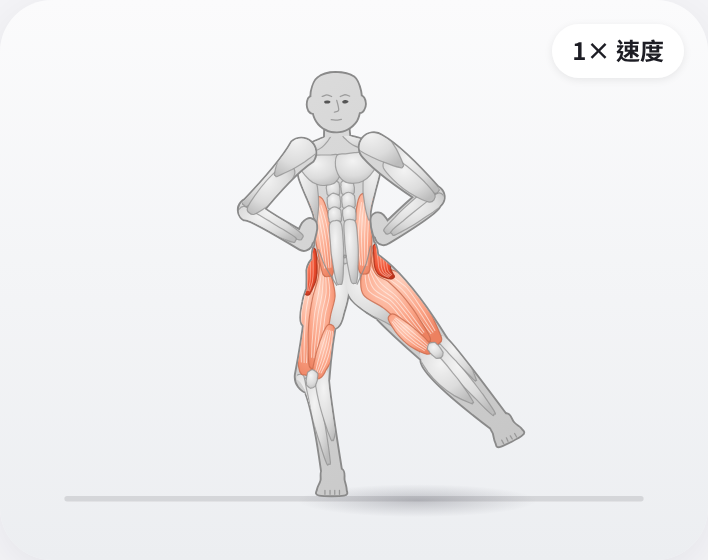
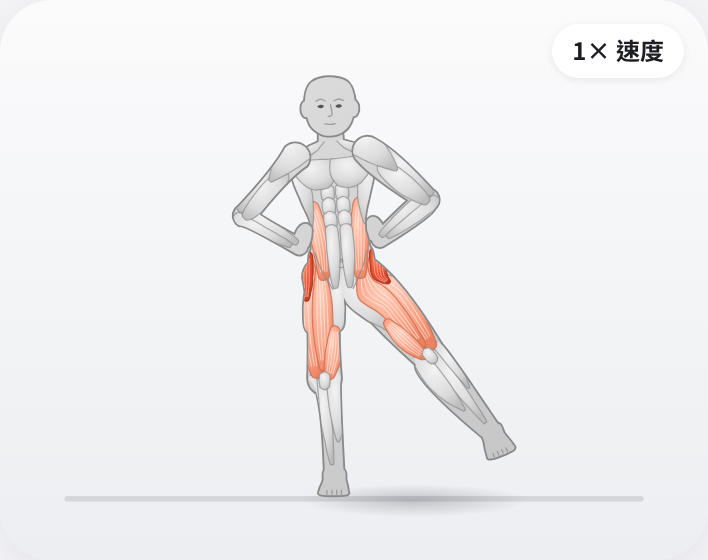
Natural front-view aerobics: 2.5D rig (knees/elbows foreshorten toward the camera, 3D leg IK, pelvis roll + spine warp, shoulder shrug, toe-up feet, smooth monotone keys, arm/head follow-through); reworked step touch (travel, weight shift, toe tap, clap/open arms) and all front-view moves; filmstrip

Changed region(s): [[0.3107, 0.1214, 0.7458, 0.8804]]

diff --git a/src/components/figure/demos.ts b/src/components/figure/demos.ts
@@ -145,11 +145,11 @@ const hulaHalf: Key[] = [
 const SLG_W = hipY(100, 180, FLAT(129), FLAT(71), 0.6)
 /** hands clasped in front of the chest: upper arms forward and a little across, forearms up toward the camera */
 const SLG_ARM: LimbKey = { a: -16, f: 35, k: 95, b: 34, e: 180, rel: true }
-const SLG_CL = (_p: V, _T = 180): Pick<Key, 'armN' | 'armF'> => ({ armN: { ...SLG_ARM }, armF: { ...SLG_ARM } })
+const SLG_CL = (): Pick<Key, 'armN' | 'armF'> => ({ armN: { ...SLG_ARM }, armF: { ...SLG_ARM } })
 const sidelungeHalf: Key[] = [
-  k([100, SLG_W], 180, { ...SLG_CL([100, SLG_W]), legN: ff(129), legF: ff(71) }, { pa: 180, n: 0 }),
+  k([100, SLG_W], 180, { ...SLG_CL(), legN: ff(129), legF: ff(71) }, { pa: 180, n: 0 }),
   // sit into the right leg: knee bends out over the toes, left leg long, hips drop and travel right
-  k([115.5, 90], 183, { ...SLG_CL([115.5, 90], 183), legN: { ...ff(129), pole: 1.25 }, legF: ff(71) }, { pa: 181.5, n: -3 }),
+  k([115.5, 90], 183, { ...SLG_CL(), legN: { ...ff(129), pole: 1.25 }, legF: ff(71) }, { pa: 181.5, n: -3 }),
 ]
 
 /* ---- 滑雪跳 (ski hop) ---- */
@@ -578,6 +578,7 @@ export const DEMOS: Record<DemoKey, Demo> = {
     headLag: 0.02,
     keys: sym(skihopHalf),
     dur: [210, 190, 210, 190],
+    still: 0,
   },
 
   // 站姿側彎: one arm reaches over the head; the ribcage bends while the pelvis stays level and the hips
